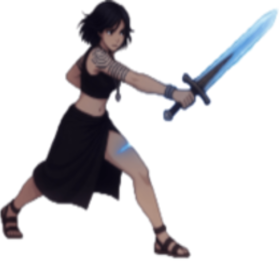
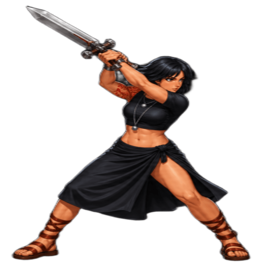
boss2 update

diff --git a/src/scenes/Phase2.js b/src/scenes/Phase2.js
@@ -48,19 +48,36 @@ export class Phase2 extends Phaser.Scene {
         this.load.image("enemy_death2", "assets/Enemy 1/death2.png");
 
 
-        this.load.image("boss2_base", "assets/Boss 2/Base.png");
+        // Boss 2 / Kayla - sprites novos
+        // damage0 = dano normal
+        // damage1 até damage4 = derrota
         this.load.image("boss2_idle", "assets/Boss 2/idle.png");
-        this.load.image("boss2_attack", "assets/Boss 2/attack1.png");
-        this.load.image("boss2_damage", "assets/Boss 2/damage.png");
-        this.load.image("boss2_death1", "assets/Boss 2/death1.png");
-        this.load.image("boss2_death2", "assets/Boss 2/death2.png");
+
+        this.load.image("boss2_attack1", "assets/Boss 2/attack1.png");
+        this.load.image("boss2_attack2", "assets/Boss 2/attack2.png");
+        this.load.image("boss2_attack3", "assets/Boss 2/attack3.png");
+
+        this.load.image("boss2_damage", "assets/Boss 2/damage0.png");
+
+        this.load.image("boss2_death1", "assets/Boss 2/damage1.png");
+        this.load.image("boss2_death2", "assets/Boss 2/damage2.png");
+        this.load.image("boss2_death3", "assets/Boss 2/damage3.png");
+        this.load.image("boss2_death4", "assets/Boss 2/damage4.png");
+
         this.load.image("boss2_walk1", "assets/Boss 2/walk1.png");
         this.load.image("boss2_walk2", "assets/Boss 2/walk2.png");
         this.load.image("boss2_walk3", "assets/Boss 2/walk3.png");
         this.load.image("boss2_walk4", "assets/Boss 2/walk4.png");
         this.load.image("boss2_walk5", "assets/Boss 2/walk5.png");
-        this.load.image("potrait_kayla", "assets/Boss 2/potrait_kayla.png");
+        this.load.image("boss2_walk6", "assets/Boss 2/Walk6.png");
+        this.load.image("boss2_walk7", "assets/Boss 2/walk7.png");
+        this.load.image("boss2_walk8", "assets/Boss 2/walk8.png");
 
+        this.load.image("potrait_kayla", "assets/Boss 2/portrait.png");
+
+        this.load.image("decor_cadeira", "assets/phase2/cadeira praia.png");
+        this.load.image("decor_guardasol", "assets/phase2/guardasol.png");
+        this.load.image("decor_bola", "assets/phase2/bola.png");
         // Áudios
         this.load.audio("phaseMusic", "assets/audio/phase1.mp3");
         this.load.audio("sfxPunch", "assets/audio/punch.mp3");
@@ -397,6 +414,24 @@ export class Phase2 extends Phaser.Scene {
     criarDecoracaoPraia() {
         this.beachDecor = [];
 
+        const decoracoesPraia = [
+            {
+                key: "decor_cadeira",
+                altura: 92,
+                yOffset: 0
+            },
+            {
+                key: "decor_guardasol",
+                altura: 105,
+                yOffset: 0
+            },
+            {
+                key: "decor_bola",
+                altura: 78,
+                yOffset: 0
+            }
+        ];
+
         const props = [
             // areia
             { x: 760,  y: 520, scale: 0.95, angle: -6 },
@@ -418,13 +453,22 @@ export class Phase2 extends Phaser.Scene {
         ];
 
         props.forEach((propData) => {
-            const prop = this.add.image(propData.x, propData.y, "beachPropBox")
+            const decoracao = Phaser.Utils.Array.GetRandom(decoracoesPraia);
+
+            const prop = this.add.image(
+                propData.x,
+                propData.y + decoracao.yOffset,
+                decoracao.key
+            )
                 .setOrigin(0.5, 1)
-                .setScale(propData.scale)
                 .setAngle(propData.angle)
                 .setAlpha(0.92);
 
+            const escala = (decoracao.altura / prop.height) * propData.scale;
+            prop.setScale(escala);
+
             prop.setDepth(prop.y - 2);
+
             this.beachDecor.push(prop);
         });
     }
@@ -820,7 +864,7 @@ this.dialogHint = this.add.text(1095, 185, "ENTER", {
             });
         }
 
-        if (!this.anims.exists("boss2_idle")) {
+       if (!this.anims.exists("boss2_idle")) {
             this.anims.create({
                 key: "boss2_idle",
                 frames: [{ key: "boss2_idle" }],
@@ -837,10 +881,26 @@ this.dialogHint = this.add.text(1095, 185, "ENTER", {
                     { key: "boss2_walk2" },
                     { key: "boss2_walk3" },
                     { key: "boss2_walk4" },
-                    { key: "boss2_walk5" }
+                    { key: "boss2_walk5" },
+                    { key: "boss2_walk6" },
+                    { key: "boss2_walk7" },
+                    { key: "boss2_walk8" }
                 ],
-                frameRate: 8,
+                frameRate: 10,
                 repeat: -1
+            });
+        }
+
+        if (!this.anims.exists("boss2_attack")) {
+            this.anims.create({
+                key: "boss2_attack",
+                frames: [
+                    { key: "boss2_attack1" },
+                    { key: "boss2_attack2" },
+                    { key: "boss2_attack3" }
+                ],
+                frameRate: 10,
+                repeat: 0
             });
         }
 
@@ -849,9 +909,11 @@ this.dialogHint = this.add.text(1095, 185, "ENTER", {
                 key: "boss2_death",
                 frames: [
                     { key: "boss2_death1" },
-                    { key: "boss2_death2" }
+                    { key: "boss2_death2" },
+                    { key: "boss2_death3" },
+                    { key: "boss2_death4" }
                 ],
-                frameRate: 4,
+                frameRate: 5,
                 repeat: 0
             });
         }
@@ -1032,7 +1094,7 @@ encerrarDialogoBoss() {
                 data: {
                     maxHp: 320,
                     currentHp: 320,
-                    speed: 88,
+                    speed: 135,
                     damage: 24,
                     isDead: false,
                     isAttacking: false,
@@ -1123,17 +1185,17 @@ encerrarDialogoBoss() {
         this.enemies.push(enemy);
     }
 
-    spawnBox(x, y) {
-        const sprite = this.add.image(x, y, "crateBox").setOrigin(0.5, 1);
+        spawnBox(x, y) {
+            const sprite = this.add.image(x, y, "crateBox").setOrigin(0.5, 1);
 
-        const box = {
-            sprite,
-            hp: 20,
-            destroyed: false
-        };
+            const box = {
+                sprite,
+                hp: 20,
+                destroyed: false
+            };
 
-        this.boxes.push(box);
-    }
+            this.boxes.push(box);
+        }
 
     spawnHealthItem(x, groundY, mode = "rise") {
         const sprite = this.add.image(x, mode === "fall" ? -30 : groundY + 10, "snackItem")
@@ -1518,7 +1580,8 @@ encerrarDialogoBoss() {
 
         sprite.body.setVelocity(0, 0);
         sprite.anims.stop();
-        sprite.setTexture("boss2_attack");
+
+        sprite.play("boss2_attack", true);
         this.ajustarEscalaSprite(sprite, this.alturaBoss);
 
         this.tocarSom(this.sfxPunch, true);
@@ -1589,8 +1652,11 @@ encerrarDialogoBoss() {
 
         sprite.body.setVelocity(0, 0);
         sprite.anims.stop();
-        sprite.setTexture("boss2_damage");
+
+        // Primeiro frame da derrota
+        sprite.setTexture("boss2_death1");
         this.ajustarEscalaSprite(sprite, this.alturaBoss);
+
         this.tocarSom(this.sfxBossDeath, true);
 
         this.aplicarArremessoNaMorte(
@@ -1603,6 +1669,8 @@ encerrarDialogoBoss() {
             260,
             () => {
                 if (!sprite.active) return;
+
+                // Sequência damage1, damage2, damage3, damage4
                 sprite.play("boss2_death", true);
                 this.ajustarEscalaSprite(sprite, this.alturaBoss);
             }
@@ -2262,6 +2330,10 @@ encerrarDialogoBoss() {
                 enemy.sprite.setDepth(enemy.sprite.y);
             }
         });
+
+            if (this.boss && this.boss.sprite && this.boss.sprite.active) {
+                this.boss.sprite.setDepth(this.boss.sprite.y + 10);
+            }
 
         this.boxes.forEach((box) => {
             if (box.sprite && box.sprite.active) {

diff --git a/src/scenes/cene1.js b/src/scenes/cene1.js
@@ -146,7 +146,7 @@ export class Cene1 extends Phaser.Scene {
                     this.dialogMusic.stop();
                 }
 
-                this.scene.start("Phase7");
+                this.scene.start("Phase2");
                 return;
             }
 
